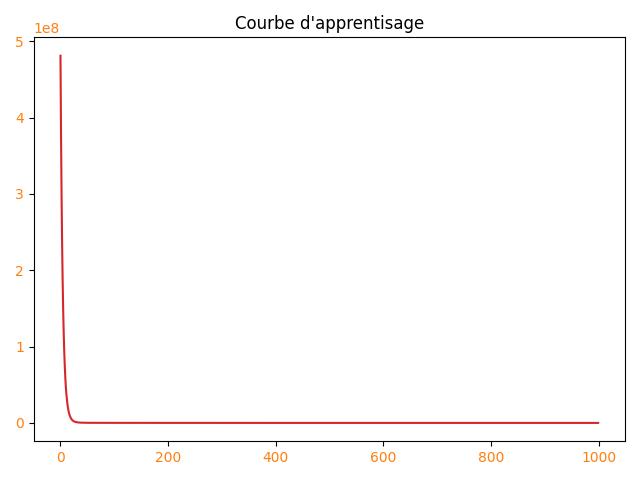
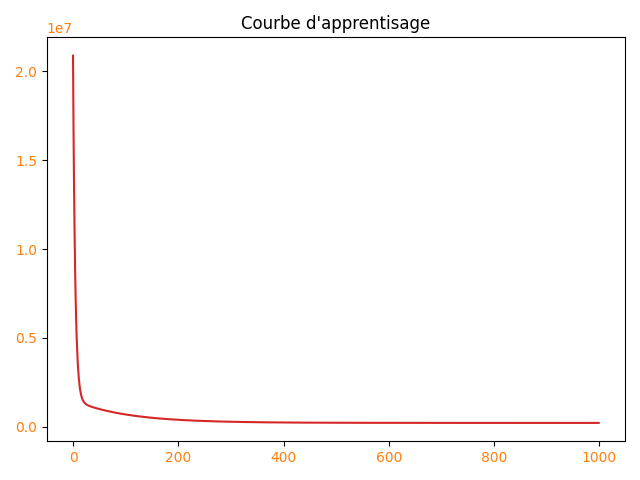
coef

diff --git a/learn.py b/learn.py
@@ -63,8 +63,8 @@ def cost_fnct(FILENAME, v, t, size):
         for l in c:
             km = normalise_data(float(l['km']), v[0], v[1])
             price = float(l['price'])
-            somme += calcul0(t, km, price)
-        tmp = 1 / (2*size) * (somme**2)
+            somme += calcul0(t, km, price)**2
+        tmp = 1 / (2*size) * somme
         file.close()
     return int(tmp)
 
